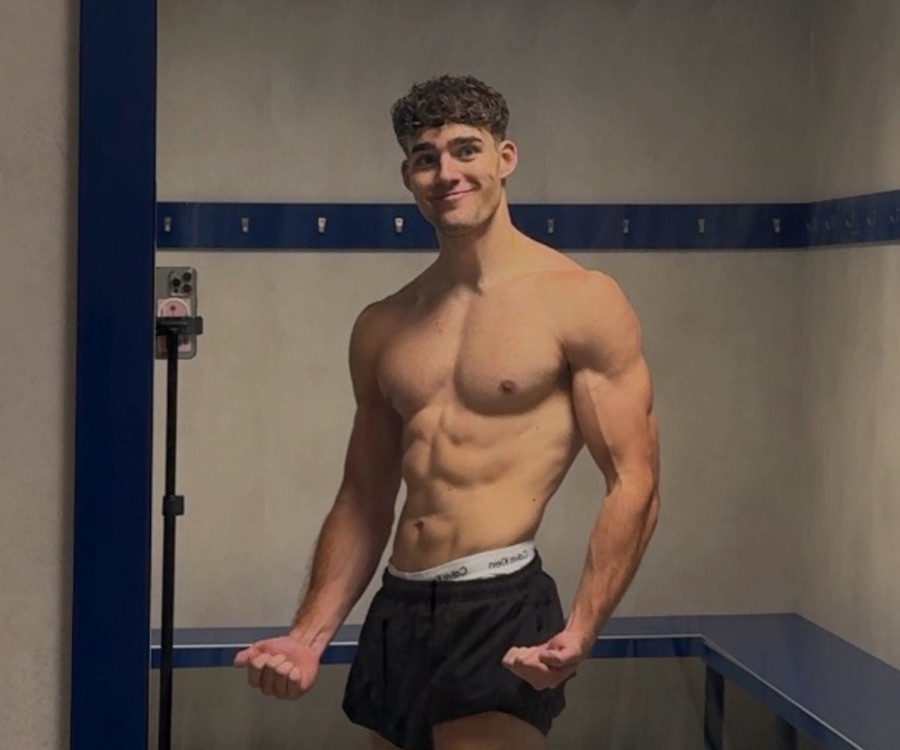
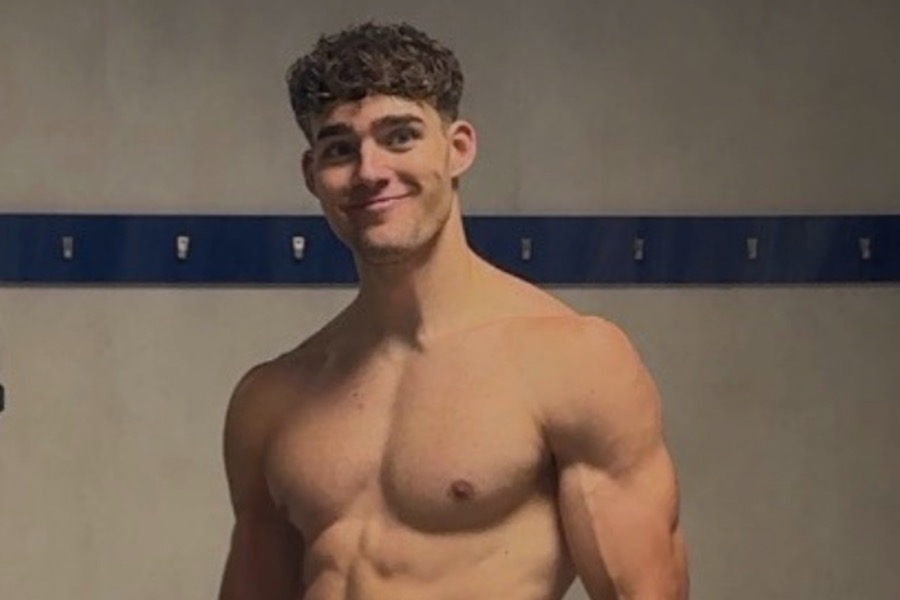
style(workout): foto in de melding bijgesneden op 3:2, kop tot buik
Je stond te ver weg in beeld: het vak is ~132x84 (3:2 liggend) en de foto
was 6:5 met jou klein in de kleedkamer. Nu bijgesneden op 900x600 vanaf de
kruin tot net onder de borst, zodat je gezicht in dat kleine vak ook echt
te zien is. 55 KB.

Claude-Session: https://claude.ai/code/session_012UAznq9TTy2JDWx6uHtnyR

diff --git a/src/modules/workout/components/WorkoutProgressToast.jsx b/src/modules/workout/components/WorkoutProgressToast.jsx
@@ -265,9 +265,9 @@ export default function WorkoutProgressToast({ client, db, onViewChart }) {
         width: '40%',
         backgroundImage: `url(${COACH_PHOTO_URL})`,
         backgroundSize: 'cover',
-        // Liggende uitsnede (900x750); met 35% valt het hoofd binnen het vak
-        // en blijft de romp zichtbaar.
-        backgroundPosition: 'center 35%',
+        // De foto is al bijgesneden op 3:2 (900x600, kop tot buik) — vrijwel
+        // dezelfde verhouding als het vak, dus er valt nauwelijks iets weg.
+        backgroundPosition: 'center 30%',
       }} />
       <div style={{
         position: 'absolute', inset: 0, pointerEvents: 'none',
